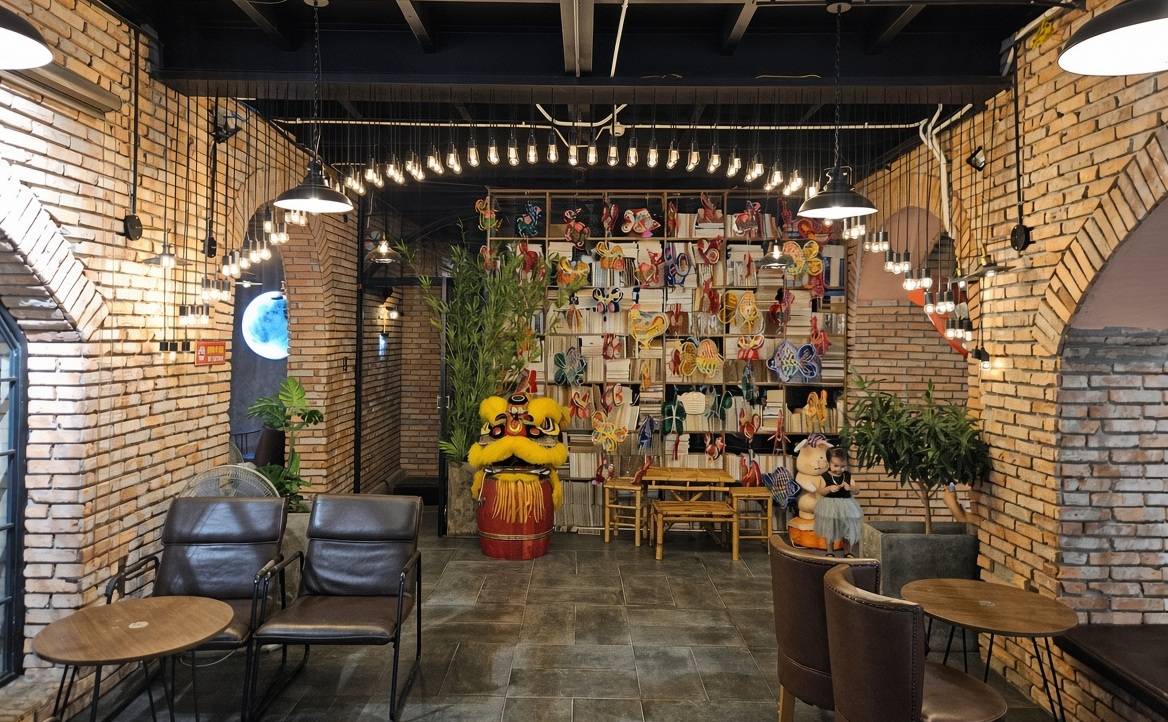
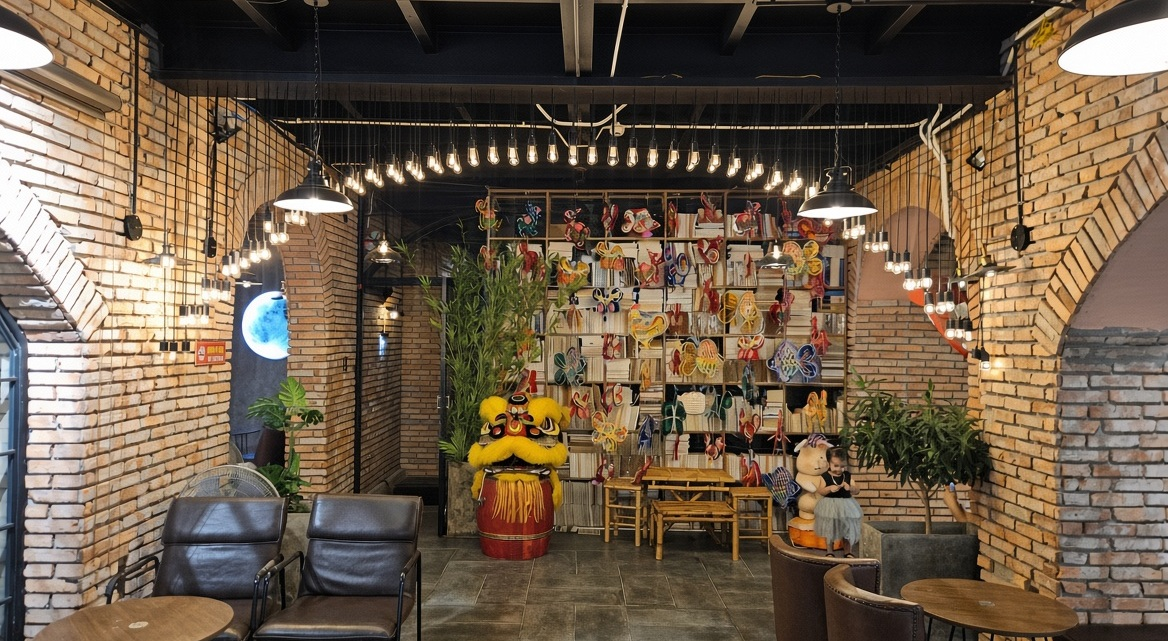
Fix team section: add 30px gap between mobile team photos, pace hide, section6 height

diff --git a/site/en/index.html b/site/en/index.html
@@ -22,7 +22,7 @@ html,body,#wrapper{overflow-x:hidden!important}
 .parassol.vert,.parassol.vert.ombre{left:auto!important;right:auto!important}
 .parassol{left:auto!important;right:auto!important}
 .verre{display:none!important}
-.equipe1,.equipe2,.equipe3{position:relative!important;left:auto!important;right:auto!important;top:auto!important;width:100%!important;margin:0 auto!important;text-align:center!important;z-index:1!important}
+.equipe1,.equipe2,.equipe3{position:relative!important;left:auto!important;right:auto!important;top:auto!important;width:100%!important;margin:0 auto 30px auto!important;text-align:center!important;z-index:1!important}
 .equipe1 img,.equipe2 img,.equipe3 img{height:auto!important;width:80vw!important;max-width:400px!important}
 .section9 .paragraph{position:relative!important;left:auto!important;right:auto!important;bottom:auto!important;width:100%!important;text-align:center!important;padding:20px!important}
 .paragraph p{width:100%!important;max-width:400px;margin:0 auto}

diff --git a/site/vi/index.html b/site/vi/index.html
@@ -22,7 +22,7 @@ html,body,#wrapper{overflow-x:hidden!important}
 .parassol.vert,.parassol.vert.ombre{left:auto!important;right:auto!important}
 .parassol{left:auto!important;right:auto!important}
 .verre{display:none!important}
-.equipe1,.equipe2,.equipe3{position:relative!important;left:auto!important;right:auto!important;top:auto!important;width:100%!important;margin:0 auto!important;text-align:center!important;z-index:1!important}
+.equipe1,.equipe2,.equipe3{position:relative!important;left:auto!important;right:auto!important;top:auto!important;width:100%!important;margin:0 auto 30px auto!important;text-align:center!important;z-index:1!important}
 .equipe1 img,.equipe2 img,.equipe3 img{height:auto!important;width:80vw!important;max-width:400px!important}
 .section9 .paragraph{position:relative!important;left:auto!important;right:auto!important;bottom:auto!important;width:100%!important;text-align:center!important;padding:20px!important}
 .paragraph p{width:100%!important;max-width:400px;margin:0 auto}

diff --git a/site/wp-content/themes/mugs/style.css b/site/wp-content/themes/mugs/style.css
@@ -2629,7 +2629,7 @@ a.rslides_nav.rslides1_nav.prev {
 		right: auto !important;
 		top: auto !important;
 		width: 100% !important;
-		margin: 0 auto !important;
+		margin: 0 auto 30px auto !important;
 		text-align: center !important;
 		z-index: 1 !important;
 	}
